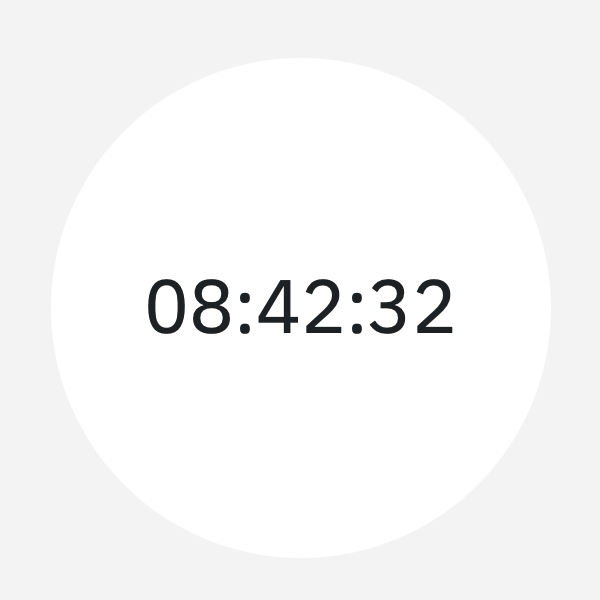
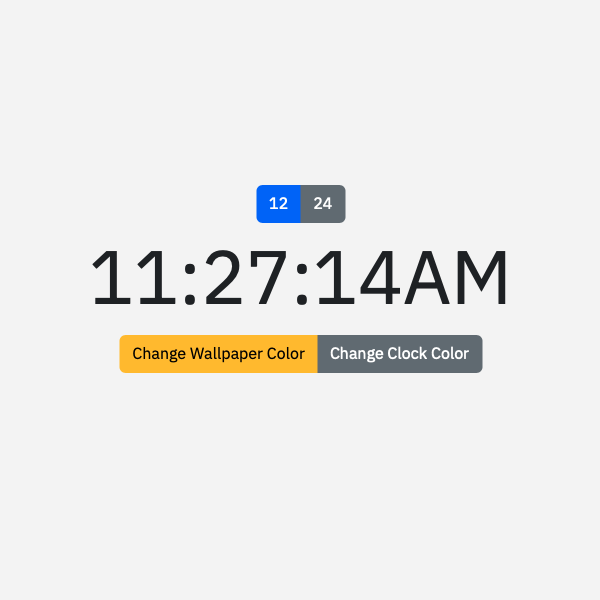
시계 기능 추가

Changed region(s): [[0.15, 0.42, 0.87, 0.63], [0.42, 0.3, 0.6, 0.39]]

diff --git a/clock/script.js b/clock/script.js
@@ -1,3 +1,7 @@
+let wallpaperSelected = false;
+let clockSelected = false;
+let is12Hour = false;
+
 function init() {
     let date = new Date();
     document.getElementById('hr').innerHTML = formatTime(date.getHours());
@@ -9,7 +13,11 @@ function init() {
 
 function timeCheck() {
     data = new Date();
-    document.getElementById('hr').innerHTML = formatTime(data.getHours());
+    if (is12Hour) {
+        document.getElementById('hr').innerHTML = formatTime(data.getHours() % 12);
+    } else {
+        document.getElementById('hr').innerHTML = formatTime(data.getHours());
+    }
     document.getElementById('min').innerHTML = formatTime(data.getMinutes());
     document.getElementById('sec').innerHTML = formatTime(data.getSeconds());
 }
@@ -22,4 +30,74 @@ function formatTime(time) {
     }
 }
 
+function wallpaperPicker() {
+    if (!(!document.getElementsByClassName('colorPickerBTN')[0].hasAttribute('hidden') && clockSelected)) {
+        document.getElementsByClassName('colorPickerBTN')[0].toggleAttribute('hidden');
+    }
+    wallpaperSelected = true;
+    clockSelected = false;
+    document.getElementById('nameOfButton').innerHTML = 'Wallpaper';
+}
+
+function clockPicker() {
+    if (!(!document.getElementsByClassName('colorPickerBTN')[0].hasAttribute('hidden') && wallpaperSelected)) {
+        document.getElementsByClassName('colorPickerBTN')[0].toggleAttribute('hidden');
+    }
+    clockSelected = true;
+    wallpaperSelected = false;
+    document.getElementById('nameOfButton').innerHTML = 'Clock';
+}
+
+function redBTN() {
+    if (wallpaperSelected) {
+        document.body.style.background = 'red';
+    } else if (clockSelected) {
+        document.getElementsByClassName('clock')[0].style.color = 'red';
+    }
+}
+
+function greenBTN() {
+    if (wallpaperSelected) {
+        document.body.style.background = 'green';
+    } else if (clockSelected) {
+        document.getElementsByClassName('clock')[0].style.color = 'green';
+    }
+}
+
+function blueBTN() {
+    if (wallpaperSelected) {
+        document.body.style.background = 'blue';
+    } else if (clockSelected) {
+        document.getElementsByClassName('clock')[0].style.color = 'blue';
+    }
+}
+
+function twelveHour() {
+    is12Hour = true;
+    document.getElementById('hr').innerHTML = formatTime(data.getHours() % 12);
+    document.getElementById("ampm").innerHTML = data.getHours() >= 12 ? "PM" : "AM";
+    document.getElementById("12").classList.remove("btn-secondary");
+    document.getElementById("12").classList.add("btn-primary");
+    document.getElementById("24").classList.remove("btn-primary");
+    document.getElementById("24").classList.add("btn-secondary");
+}
+
+function twentyFourHour() {
+    is12Hour = false;
+    document.getElementById('hr').innerHTML = formatTime(data.getHours());
+    document.getElementById("ampm").innerHTML = "";
+    document.getElementById("12").classList.remove("btn-primary");
+    document.getElementById("12").classList.add("btn-secondary");
+    document.getElementById("24").classList.remove("btn-secondary");
+    document.getElementById("24").classList.add("btn-primary");
+}
+
 init();
+
+document.getElementById("12").addEventListener("click", twelveHour);
+document.getElementById("24").addEventListener("click", twentyFourHour);
+document.getElementById('wallpaperBTN').addEventListener('click', wallpaperPicker);
+document.getElementById('clockBTN').addEventListener('click', clockPicker);
+document.getElementById('redBTN').addEventListener('click', redBTN);
+document.getElementById('blueBTN').addEventListener('click', blueBTN);
+document.getElementById('greenBTN').addEventListener('click', greenBTN);

diff --git a/clock/index.html b/clock/index.html
@@ -9,13 +9,12 @@
     <title>Clock</title>
 </head>
 <body>
-    <div id="appBar">
-        <div id="appBar__title">
-            Clock
-        </div>
-    </div>
     <div class="container">
         <div class="center">
+            <div class="btn-group">
+                <button type="button" class="btn btn-secondary" id="12">12</button>
+                <button type="button" class="btn btn-primary" id="24">24</button>
+            </div>
             <div class="col">
                 <div class="clock">
                     <span id="hr">00</span>
@@ -23,7 +22,20 @@
                     <span id="min">00</span>
                     :
                     <span id="sec">00</span>
+                    <span id="ampm"></span>
                 </div>
+            </div>
+            <div class="btn-group center-bottom">
+                <button id="wallpaperBTN" class="btn btn-warning responsive-font-size">Change Wallpaper Color</button>
+                <button id="clockBTN" class="btn btn-secondary responsive-font-size">Change Clock Color</button>
+            </div>
+        </div>
+        <div class="colorPickerBTN" hidden>
+            <div id="nameOfButton"></div>
+            <div class="row">
+                <div id="redBTN" class="colorPicker__color colorPicker__color--red"></div>
+                <div id="greenBTN" class="colorPicker__color colorPicker__color--green"></div>
+                <div id="blueBTN" class="colorPicker__color colorPicker__color--blue"></div>
             </div>
         </div>
     </div>

diff --git a/clock/style.css b/clock/style.css
@@ -12,33 +12,7 @@ body {
     background-color: #f5f5f5;
 }
 
-#appBar {
-    background-color: white;
-    height: 50px;
-    line-height: 30px;
-    padding: 0 10px;
-    position: fixed;
-    top: 0;
-    width: 100%;
-    z-index: 100;
-}
-
-#appBar__title {
-    float: left;
-    color: cornflowerblue;
-    font-weight: bold;
-    font-size: 20px;
-    position: absolute;
-    top: 50%;
-    left: 50%;
-    transform: translate(-50%, -50%);
-}
-
 .clock {
-    background-color: white;
-    width: 500px;
-    height: 500px;
-    border-radius: 50%;
     display: flex;
     justify-content: center;
     align-items: center;
@@ -53,4 +27,42 @@ body {
     display: flex;
     align-items: center;
     flex-direction: column;
+}
+
+#nameOfButton {
+    font-size: 20px;
+    margin-bottom: 10px;
+}
+
+.colorPickerBTN {
+    justify-content: center;
+    align-items: center;
+    margin-top: 20px;
+    position: absolute;
+    bottom: 20%;
+    left: 50%;
+    transform: translateX(-50%);
+    background-color: white;
+    box-shadow: 0 0 10px 0 rgba(0, 0, 0, 0.2);
+    border-radius: 10px;
+    padding: 20px;
+}
+
+.colorPicker__color {
+    width: 50px;
+    height: 50px;
+    margin: 0 10px;
+    cursor: pointer;
+}
+
+.colorPicker__color--red {
+    background-color: #ff0000;
+}
+
+.colorPicker__color--green {
+    background-color: #00ff00;
+}
+
+.colorPicker__color--blue {
+    background-color: #0000ff;
 }
